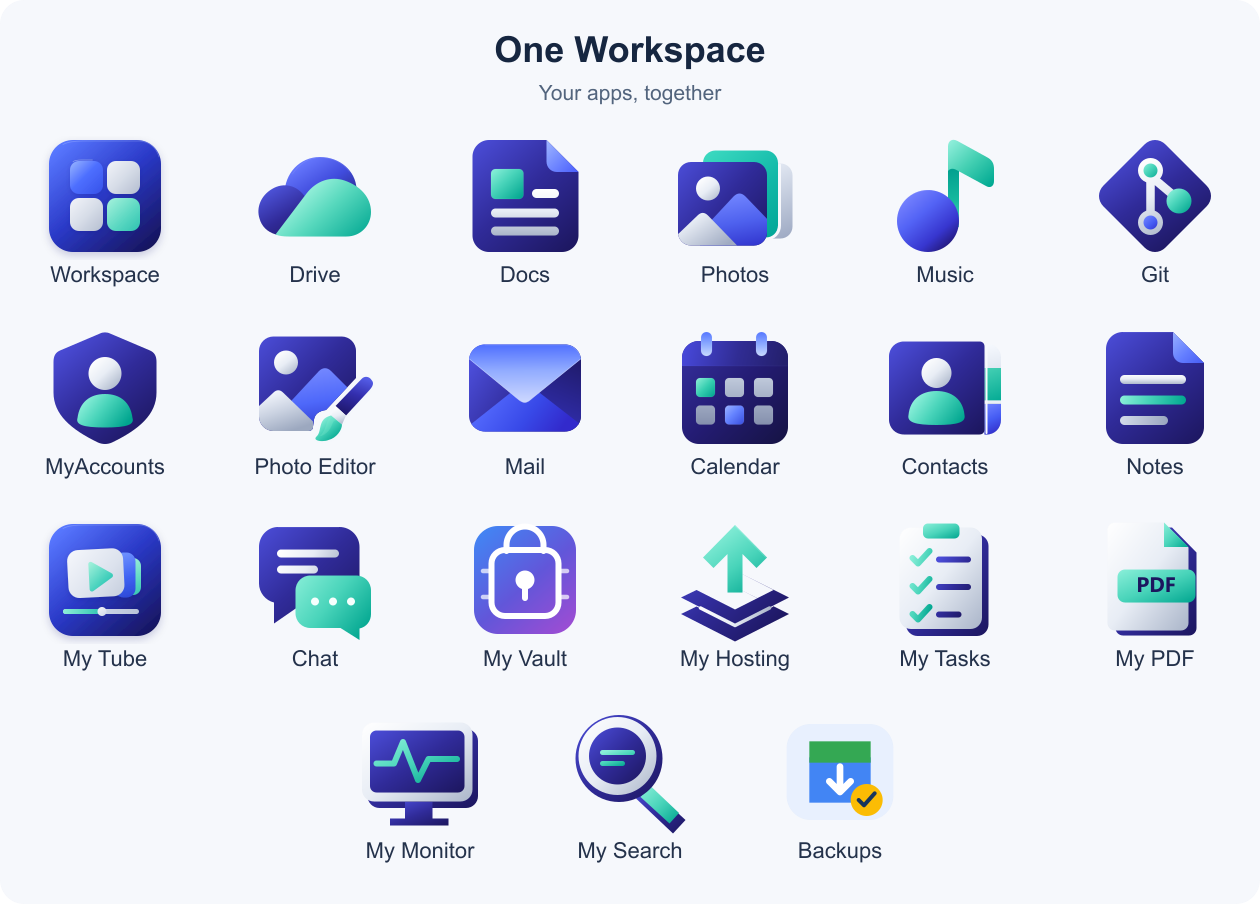
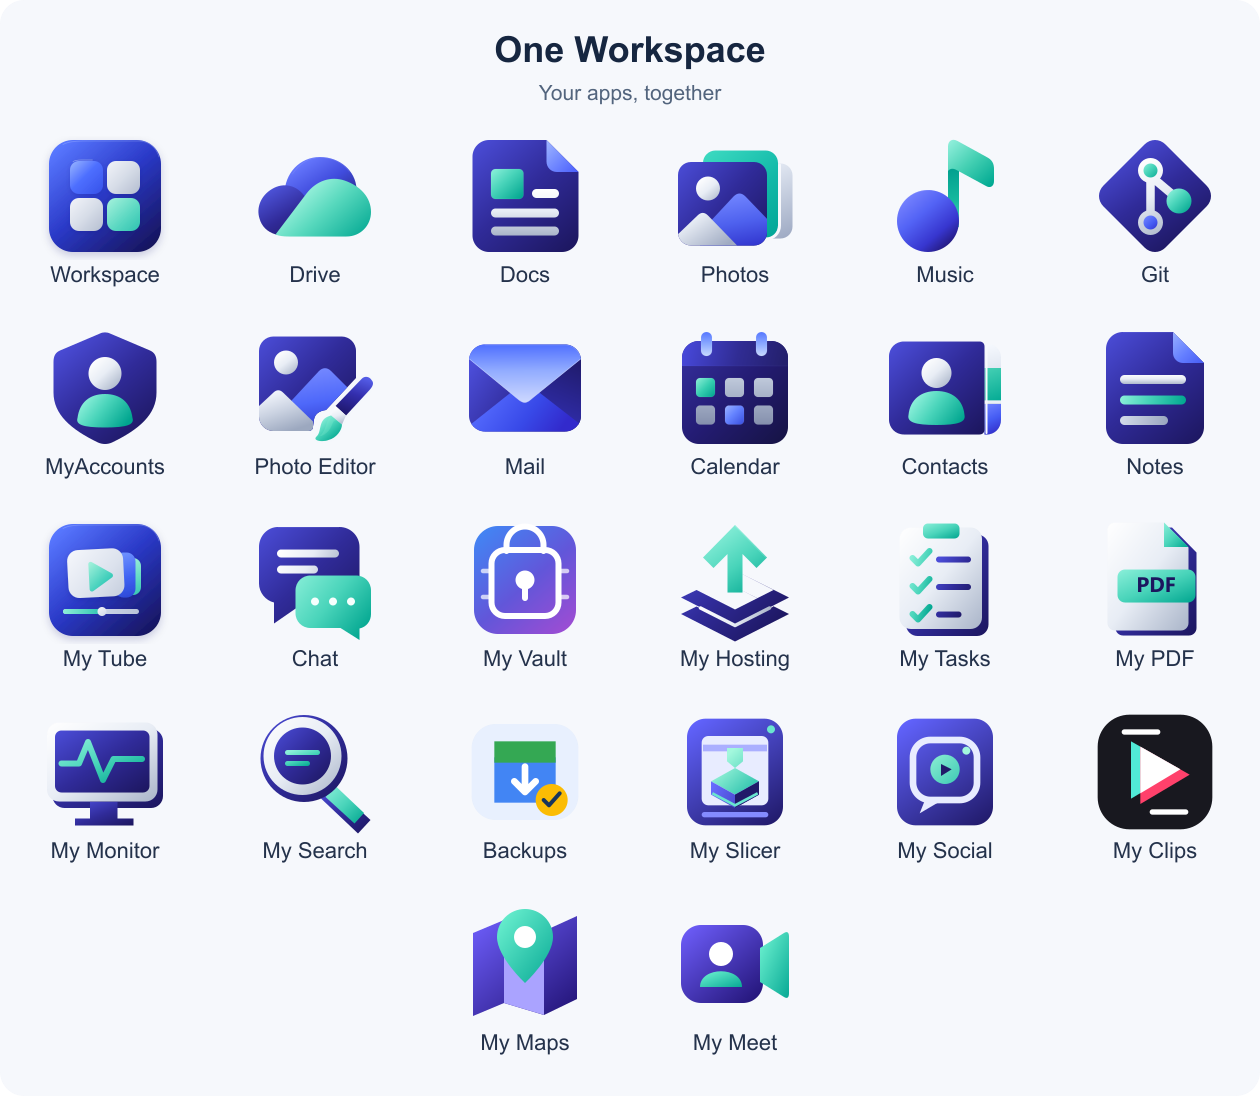
Integrate Maps, Meet and direct Office creation in Workspace53 [skip ci]

diff --git a/internal/suite/config.go b/internal/suite/config.go
@@ -163,6 +163,10 @@ func NewConfig(r Request, c catalog.Catalog) Config {
 			app.Port = r.Port + 14
 		case "chat":
 			app.Port = r.Port + 16
+		case "maps":
+			app.Port = r.Port + 25
+		case "meet":
+			app.Port = r.Port + 26
 		case "clips":
 			app.Port = r.Port + 24
 		case "social":
@@ -211,12 +215,20 @@ func Save(c Config, s Secrets) error {
 }
 func CheckPorts(c Config) error {
 	ports := []int{c.Port}
+	mediaUDP := []int{}
 	if SharedEnabled(c) && !sharedOwnsPort(c) {
 		ports = append(ports, c.Port+11)
 	}
 	for _, a := range c.Catalog.Apps {
 		if a.Kind == "process" {
 			ports = append(ports, a.Port)
+			if a.ID == "meet" {
+				if a.Port > 64000 {
+					return errors.New("My Meet needs media ports above its app port; choose a Workspace base port below 63975")
+				}
+				ports = append(ports, a.Port+1000, a.Port+1002)
+				mediaUDP = append(mediaUDP, a.Port+1001)
+			}
 			if a.ID == "vault" {
 				ports = append(ports, a.Port+1)
 			}
@@ -240,6 +252,13 @@ func CheckPorts(c Config) error {
 			return fmt.Errorf("port %d is already in use", p)
 		}
 		listeners = append(listeners, l)
+	}
+	for _, p := range mediaUDP {
+		l, e := net.ListenPacket("udp4", fmt.Sprintf("0.0.0.0:%d", p))
+		if e != nil {
+			return fmt.Errorf("My Meet media UDP port %d is already in use; choose a different Workspace base port", p)
+		}
+		l.Close()
 	}
 	return nil
 }

diff --git a/internal/branding/branding.go b/internal/branding/branding.go
@@ -75,7 +75,7 @@ func Icon(app string) string {
 		"backups": "backups", "calendar": "my_calendar", "contacts": "my_contacts", "drive": "my_drive", "docs": "my_office", "office": "my_office",
 		"photos": "my_photos", "gitea": "my_git", "git": "my_git",
 		"music": "my_music", "studio": "photo_editor", "photo-editor": "photo_editor",
-		"clips": "my_clips", "social": "my_social", "slicer": "my_slicer", "tasks": "my_tasks", "pdf": "my_pdf", "monitor": "my_monitor", "search": "my_search", "hosting": "my_hosting", "chat": "my_chat", "mail": "my_mail", "accounts": "my_accounts", "myaccounts": "my_accounts", "notes": "my_notes", "my-tube": "my_tube", "vault": "my_vault",
+		"maps": "my_maps", "meet": "my_meet", "clips": "my_clips", "social": "my_social", "slicer": "my_slicer", "tasks": "my_tasks", "pdf": "my_pdf", "monitor": "my_monitor", "search": "my_search", "hosting": "my_hosting", "chat": "my_chat", "mail": "my_mail", "accounts": "my_accounts", "myaccounts": "my_accounts", "notes": "my_notes", "my-tube": "my_tube", "vault": "my_vault",
 	}[app]
 	if name == "" {
 		name = "one_workspace"

diff --git a/internal/suite/seamless.go b/internal/suite/seamless.go
@@ -21,6 +21,8 @@ type appSignIn struct {
 }
 
 var suiteSignIns = []appSignIn{
+	{"maps", "My Maps", "/maps", "/api/me", "/maps/auth/login", "/maps/auth/logout", []string{"maps_session"}},
+	{"meet", "My Meet", "/meet", "/api/me", "/meet/auth/login", "/meet/auth/logout", []string{"meet_session"}},
 	{"clips", "My Clips", "/clips", "/api/me", "/clips/auth/login", "/clips/auth/logout", []string{"clips_session"}},
 	{"social", "My Social", "/social", "/api/me", "/social/auth/login", "/social/auth/logout", []string{"social_session"}},
 	{"slicer", "My Slicer", "/slicer", "/api/me", "/slicer/auth/login", "/slicer/auth/logout", []string{"slicer_session"}},

diff --git a/internal/distribution/updates.go b/internal/distribution/updates.go
@@ -82,6 +82,8 @@ type updateGroup struct {
 }
 
 var updateGroups = []updateGroup{
+	{"maps", "My Maps", "my-maps", []string{"maps"}},
+	{"meet", "My Meet", "my-meet", []string{"meet"}},
 
 	{"workspace", "One Workspace", "one-workspace", nil},
 	{"accounts", "MyAccounts", "myaccounts", []string{"accounts"}},
@@ -254,6 +256,7 @@ func suiteUpdateGroups(latest catalog.Catalog) []updateGroup {
 	return groups
 }
 func updatePackageOwner(id string) string {
+	for _, app := range []string{"maps", "meet"} {if id == app || strings.HasPrefix(id,app+"-"){return app}}
 	if id == "clips" || strings.HasPrefix(id, "clips-") {
 		return "clips"
 	}

diff --git a/internal/suite/runtime_storage.go b/internal/suite/runtime_storage.go
@@ -10,7 +10,7 @@ func runtimeTemp(c Config, app string) string { return filepath.Join(c.Data, "ru
 
 func appWorkingDir(c Config, app string) string {
 	switch app {
-	case "clips", "social", "tasks", "pdf", "monitor", "search", "accounts", "drive", "photos", "gitea", "music", "mail", "calendar", "contacts", "notes", "my-tube", "chat":
+	case "maps", "meet", "clips", "social", "tasks", "pdf", "monitor", "search", "accounts", "drive", "photos", "gitea", "music", "mail", "calendar", "contacts", "notes", "my-tube", "chat":
 		return filepath.Join(c.Data, app)
 	case "vault":
 		return filepath.Join(c.Data, "my-vault")

diff --git a/internal/suite/navigation.go b/internal/suite/navigation.go
@@ -98,7 +98,7 @@ func clearAppCookies(w http.ResponseWriter, r *http.Request, secure bool) {
 		"access_token_cookie": {"/", "/music/"}, "csrf_access_token": {"/", "/music/"}, "swingmusic_oidc": {"/", "/music/"},
 		"workspace_gitea": {"/", "/git", "/git/"},
 	}
-	for _, id := range []string{"clips", "social", "slicer", "tasks", "pdf", "monitor", "search"} {
+	for _, id := range []string{"maps", "meet", "clips", "social", "slicer", "tasks", "pdf", "monitor", "search"} {
 		names[id+"_session"] = []string{"/", "/" + id + "/"}
 		names[id+"_login"] = []string{"/", "/" + id + "/"}
 	}

diff --git a/internal/suite/four_apps.go b/internal/suite/four_apps.go
@@ -16,7 +16,7 @@ import (
 )
 
 func foundationApp(id string) bool {
-	return id == "clips" || id == "social" || id == "slicer" || id == "tasks" || id == "pdf" || id == "monitor" || id == "search"
+	return id == "maps" || id == "meet" || id == "clips" || id == "social" || id == "slicer" || id == "tasks" || id == "pdf" || id == "monitor" || id == "search"
 }
 func monitorCapability(secret string) string {
 	if secret == "" {

diff --git a/docs/MAPS-MEET.md b/docs/MAPS-MEET.md
@@ -1,0 +1,62 @@
+# My Maps and My Meet
+
+Workspace53 adds both apps to the default installation and update catalogue.
+Use the Apps page to open them; existing MyAccounts sessions start their normal
+authenticated SSO flow automatically. Neither app uses a second managed password.
+Advanced installation can exclude them. Standalone EXEs provide their own local
+owner setup when no Workspace identity provider is configured.
+
+## My Maps
+
+`Maps.exe` uses Leaflet and OpenStreetMap. It includes search, dropped pins,
+private saved lists and notes, share links, measurement, location following,
+driving/cycling/walking routes with alternatives and up to eight stops, and
+GeoJSON/GPX downloads. State is under the managed `maps` private data folder.
+
+The default community tile, Photon and FOSSGIS services are free and have no
+availability guarantee. Requests disclose the requested search/route to those
+providers. There is no bulk tile download. Operators can configure compatible
+HTTPS providers or host open source services themselves. No traffic, Street View,
+satellite, transit timetable, review corpus, offline package or voice navigation
+is included. [App documentation](https://github.com/oneworkspacestudio/my-maps).
+
+## My Meet
+
+`Meet.exe` embeds the pinned, checksum-verified LiveKit Windows binary. It extracts
+into protected `meet/engine` data and is supervised as a child process; one EXE
+launch starts both the app and engine. Meetings, participant permissions and chat
+stay in the managed `meet` data folder and participate in normal backups.
+
+Includes camera/mic preview and selection, meetings and dated links, an account
+and host admission lobby, video/audio, screen sharing, pinning, host removal/mute,
+room locking, end for all, chat, hands, reactions and browser screen recording.
+Recordings download as ordinary WebM files; they can be uploaded to Drive.
+
+The web UI and authenticated signalling use `/meet/` on the usual Workspace URL.
+Media needs a reachable UDP or TCP route to the PC. The default UDP port is
+10017 and TCP is 10018; alternate Workspace base ports change these. Meet Settings
+shows the actual ports. Configure router forwarding/firewall rules and
+`MYMEET_EXTERNAL_IP=true` before claiming external calling. Restrictive networks
+may need a separately hosted TURN service. No paid service is enabled.
+
+There is no anonymous guest entry, telephony, breakout rooms, polls, cloud
+recording, captions/transcription or background effects. The 32-participant room
+limit is a configured ceiling, not a capacity certification. Media is encrypted
+in transit but handled by the self-hosted server, not end-to-end encrypted.
+[App documentation](https://github.com/oneworkspacestudio/my-meet).
+
+## Drive Office files
+
+Drive → **New** now offers **Word document**, **Excel spreadsheet**,
+**PowerPoint presentation** and **PDF document** directly. The existing creation
+and editor paths preserve Drive permissions and store ordinary files in the
+selected source folder, with the existing autosave/history features.
+
+## Evidence
+
+Local TypeScript/AUI/Vite and Windows builds completed. Isolated Chrome previews
+used synthetic identities and media: Meet host admission, two clients receiving
+media and shared meeting chat worked. Maps displayed OSM tiles and Photon results.
+These checks do not establish physical-device quality, public NAT traversal,
+large meeting capacity or full feature parity. Release and installation receipts
+are separate from this scoped preview evidence.

diff --git a/README.md b/README.md
@@ -21,7 +21,7 @@ Browse files, edit documents, enjoy your photos and music, and move between apps
 
 ## Meet your apps
 
-![Current One Workspace and app logos](docs/branding/app-suite-slicer.png)
+![Current One Workspace and app logos, including My Maps and My Meet](docs/branding/app-suite-36dfad39.png)
 
 *The current project logos. Open an app repository below for its source, README and downloads.*
 
@@ -162,10 +162,30 @@ Browse files, edit documents, enjoy your photos and music, and move between apps
       <td valign="middle">Capture, compose and share protected photos, Stories and Reels. <a href="docs/MY-SOCIAL.md">Preview features and limits</a>.</td>
       <td valign="middle"><a href="https://github.com/oneworkspacestudio/my-social">my-social</a></td>
     </tr>
+    <tr>
+      <td align="center" valign="middle" width="64"><img src="internal/branding/icons/my_clips.svg" alt="My Clips logo" width="40" height="40"></td>
+      <td valign="middle"><strong>My Clips</strong></td>
+      <td valign="middle">Create and discover short videos, with Drive originals and adaptive streaming.</td>
+      <td valign="middle"><a href="https://github.com/oneworkspacestudio/my-clips">my-clips</a></td>
+    </tr>
+    <tr>
+      <td align="center" valign="middle" width="64"><img src="internal/branding/icons/my_maps.svg" alt="My Maps logo" width="40" height="40"></td>
+      <td valign="middle"><strong>My Maps</strong></td>
+      <td valign="middle">OpenStreetMap exploration, saved places and driving, cycling and walking routes.</td>
+      <td valign="middle"><a href="https://github.com/oneworkspacestudio/my-maps">my-maps</a></td>
+    </tr>
+    <tr>
+      <td align="center" valign="middle" width="64"><img src="internal/branding/icons/my_meet.svg" alt="My Meet logo" width="40" height="40"></td>
+      <td valign="middle"><strong>My Meet</strong></td>
+      <td valign="middle">Self-hosted video meetings, host approval, screen sharing and chat. <a href="docs/MAPS-MEET.md">Remote media setup and preview limits</a>.</td>
+      <td valign="middle"><a href="https://github.com/oneworkspacestudio/my-meet">my-meet</a></td>
+    </tr>
 </tbody>
 </table>
 
-**Preview 51 adds [My Clips](docs/MY-CLIPS.md)**: an original short-video app, private Drive originals, adaptive HLS, creator tools, recommendations and a signed Android client. Existing app pins are preserved. This is a first preview with documented parity and device limits.
+**Preview 53 adds [My Maps and My Meet](docs/MAPS-MEET.md)**, bringing the default catalogue to 24 apps. Both run as standalone Windows executables or use Workspace sign-in. Drive's New menu now offers Word, Excel, PowerPoint and PDF directly. Meet's web page uses the tunnel; Internet media needs reachable UDP/TCP ports or a self-hosted relay. These are functional previews with documented feature and network limits.
+
+**Preview 51 added [My Clips](docs/MY-CLIPS.md)**: an original short-video app, private Drive originals, adaptive HLS, creator tools, recommendations and a signed Android client.
 
 **Preview 49 improves [Chat continuity](docs/CHAT.md#offline-continuity-in-chat10).**
 Previously opened Chat pages load during outages, messages stay in a durable

diff --git a/agents/history/2026-10-20-maps-meet-compacted.md b/agents/history/2026-10-20-maps-meet-compacted.md
@@ -6,4 +6,36 @@ Shared apphost now has explicit opt-in geolocation, safe HTTPS image origins and
 
 Maps provider policies: OSM tiles forbid offline bulk downloads; Photon is best effort; FOSSGIS maximum one request/second. Remote LiveKit requires reachable media UDP/TCP (HTTP Cloudflare tunnel alone cannot carry media). No live traffic, Street View, proprietary reviews, Meet telephony, cloud transcription or unlimited conferencing claimed.
 
-Build tools/caches: I:/Projects/tooling/maps-meet-20261020 and existing four-apps/env.ps1. No owner install changed. Release scripts/integration/package/license work remains. Current tool session holds pending Drive main-menu edit in I:/Projects/filebrowser-drive; unrelated untracked preview files must be preserved.
+Build tools/caches: I:/Projects/tooling/maps-meet-20261020 and existing four-apps/env.ps1. GOTMPDIR is now task-owned on I: for large builds. No owner install changed yet.
+
+## Release preparation
+
+Merged the primary checkout's 7104646 (Workspace52 navigation and Clips3) before
+integration. Published apphost dependency 0578d36ce297 is pinned in both new Go
+modules. Suite53 adds maps/meet ports, routes, identity/session lifecycle, private
+storage, icons, source pins, licences, app-update groups and contracts. Default
+catalogue has 24 apps. Meet's derived TCP/UDP ports are included in install
+preflight, with a clear lower-base-port error. README overview/table includes all
+apps and retains existing hero artwork. New-app exclusion/update selection uses
+the existing default-app contract.
+
+Maps release source c25322c; Meet e92087e; Drive 1319b08b. Windows standalone
+packages built locally, no Actions. Drive3 only promotes existing Office creation
+to the main New menu; Photos bytes and pinned editor/Studio vendor assets remain
+unchanged, verified against the public Drive2 release. Its untracked preview files
+are preserved. Source/licence/checksum assets are staged for org publication.
+
+Chrome synthetic preview: Maps OSM tiles and Photon results render on desktop
+and mobile. Meet has real LiveKit connections, two synthetic media publishers,
+host admission and cross-client chat. Physical media quality, public NAT paths,
+capacity and full Google parity remain unverified. The 120 engine module licences
+and missing npm protobuf licence texts are included. Maps stale reverse-lookup
+selection, exact pin coordinates, Settings overlay restoration and mobile tab
+shrink were corrected during visual review.
+
+Next: finish public app releases, run the complete pinned org build, publish
+Workspace53 and app update manifests, then apply the normal backed-up owner
+update. Recheck current canonical Git and installed state first because the
+Workspace52 task may still be publishing/updating. Remote Meet forwarding choice
+is pending; never infer approval. Clean only task-owned synthetic preview
+processes/data on C:, not the owner's rollback or other active work.

diff --git a/docs/RELEASE-STATUS.md b/docs/RELEASE-STATUS.md
@@ -1,3 +1,17 @@
+# Workspace53: Maps, Meet and visible Office creation
+
+Adds My Maps1 and My Meet1 to the default 24-app catalogue, shared MyAccounts
+sign-in, managed private app folders, backup coverage and app updates. New
+installs can deselect optional apps in Advanced; existing installations retain
+their explicit exclusions. Carries forward the Workspace52 integrated navigation
+and Clips3 sidebar footer. Drive3 exposes DOCX, XLSX, PPTX and PDF in the New menu.
+
+Maps uses Leaflet, OpenStreetMap, Photon and FOSSGIS OSRM. Meet embeds a verified
+LiveKit Windows media engine. No paid provider or GitHub Actions is used.
+These are functional previews, not complete Google product parity. Public Meet
+media needs its own reachable UDP/TCP path; the HTTP tunnel alone is insufficient.
+See [Maps and Meet](MAPS-MEET.md) for included features and installation limits.
+
 # Workspace51: My Clips preview
 
 Adds My Clips2 as the22nd app, with isolated read-only account scopes in native
